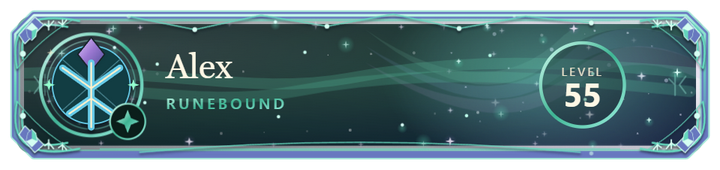
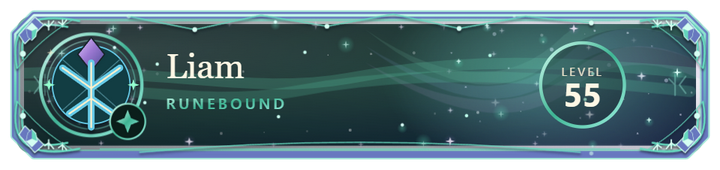
Nameplates show a mix of players' names instead of Alex

Changed region(s): [[0.2139, 0.2941, 0.3361, 0.4706]]

diff --git a/index.html b/index.html
@@ -157,7 +157,7 @@
  <div class="wrap">
   <p class="eyebrow">Rewards</p>
   <h2>Earn your nameplate</h2>
-  <p class="section-lede">Your nameplate shows your level, your title and everything you've unlocked. Each level brings something new: a title, a frame, a background or an emblem. Here is how Alex's nameplate changes on the way to level 100.</p>
+  <p class="section-lede">Your nameplate shows your level, your title and everything you've unlocked. Each level brings something new: a title, a frame, a background or an emblem. Here are a few players' nameplates on the way to level 100.</p>
   <div class="plates">
    <figure><img src="img/np/earned-5.png" width="720" height="170" alt="Level 5 nameplate: Insightful, Oak edge frame, Dusk background, Leaf emblem" loading="lazy"><figcaption><strong>Level 5</strong> · Insightful <span class="pill pill-free">Free</span></figcaption></figure>
    <figure><img src="img/np/earned-10.png" width="720" height="170" alt="Level 10 nameplate: Apprentice, Apprentice border, Meadow background, Lantern emblem" loading="lazy"><figcaption><strong>Level 10</strong> · Apprentice <span class="pill pill-free">Free</span></figcaption></figure>
